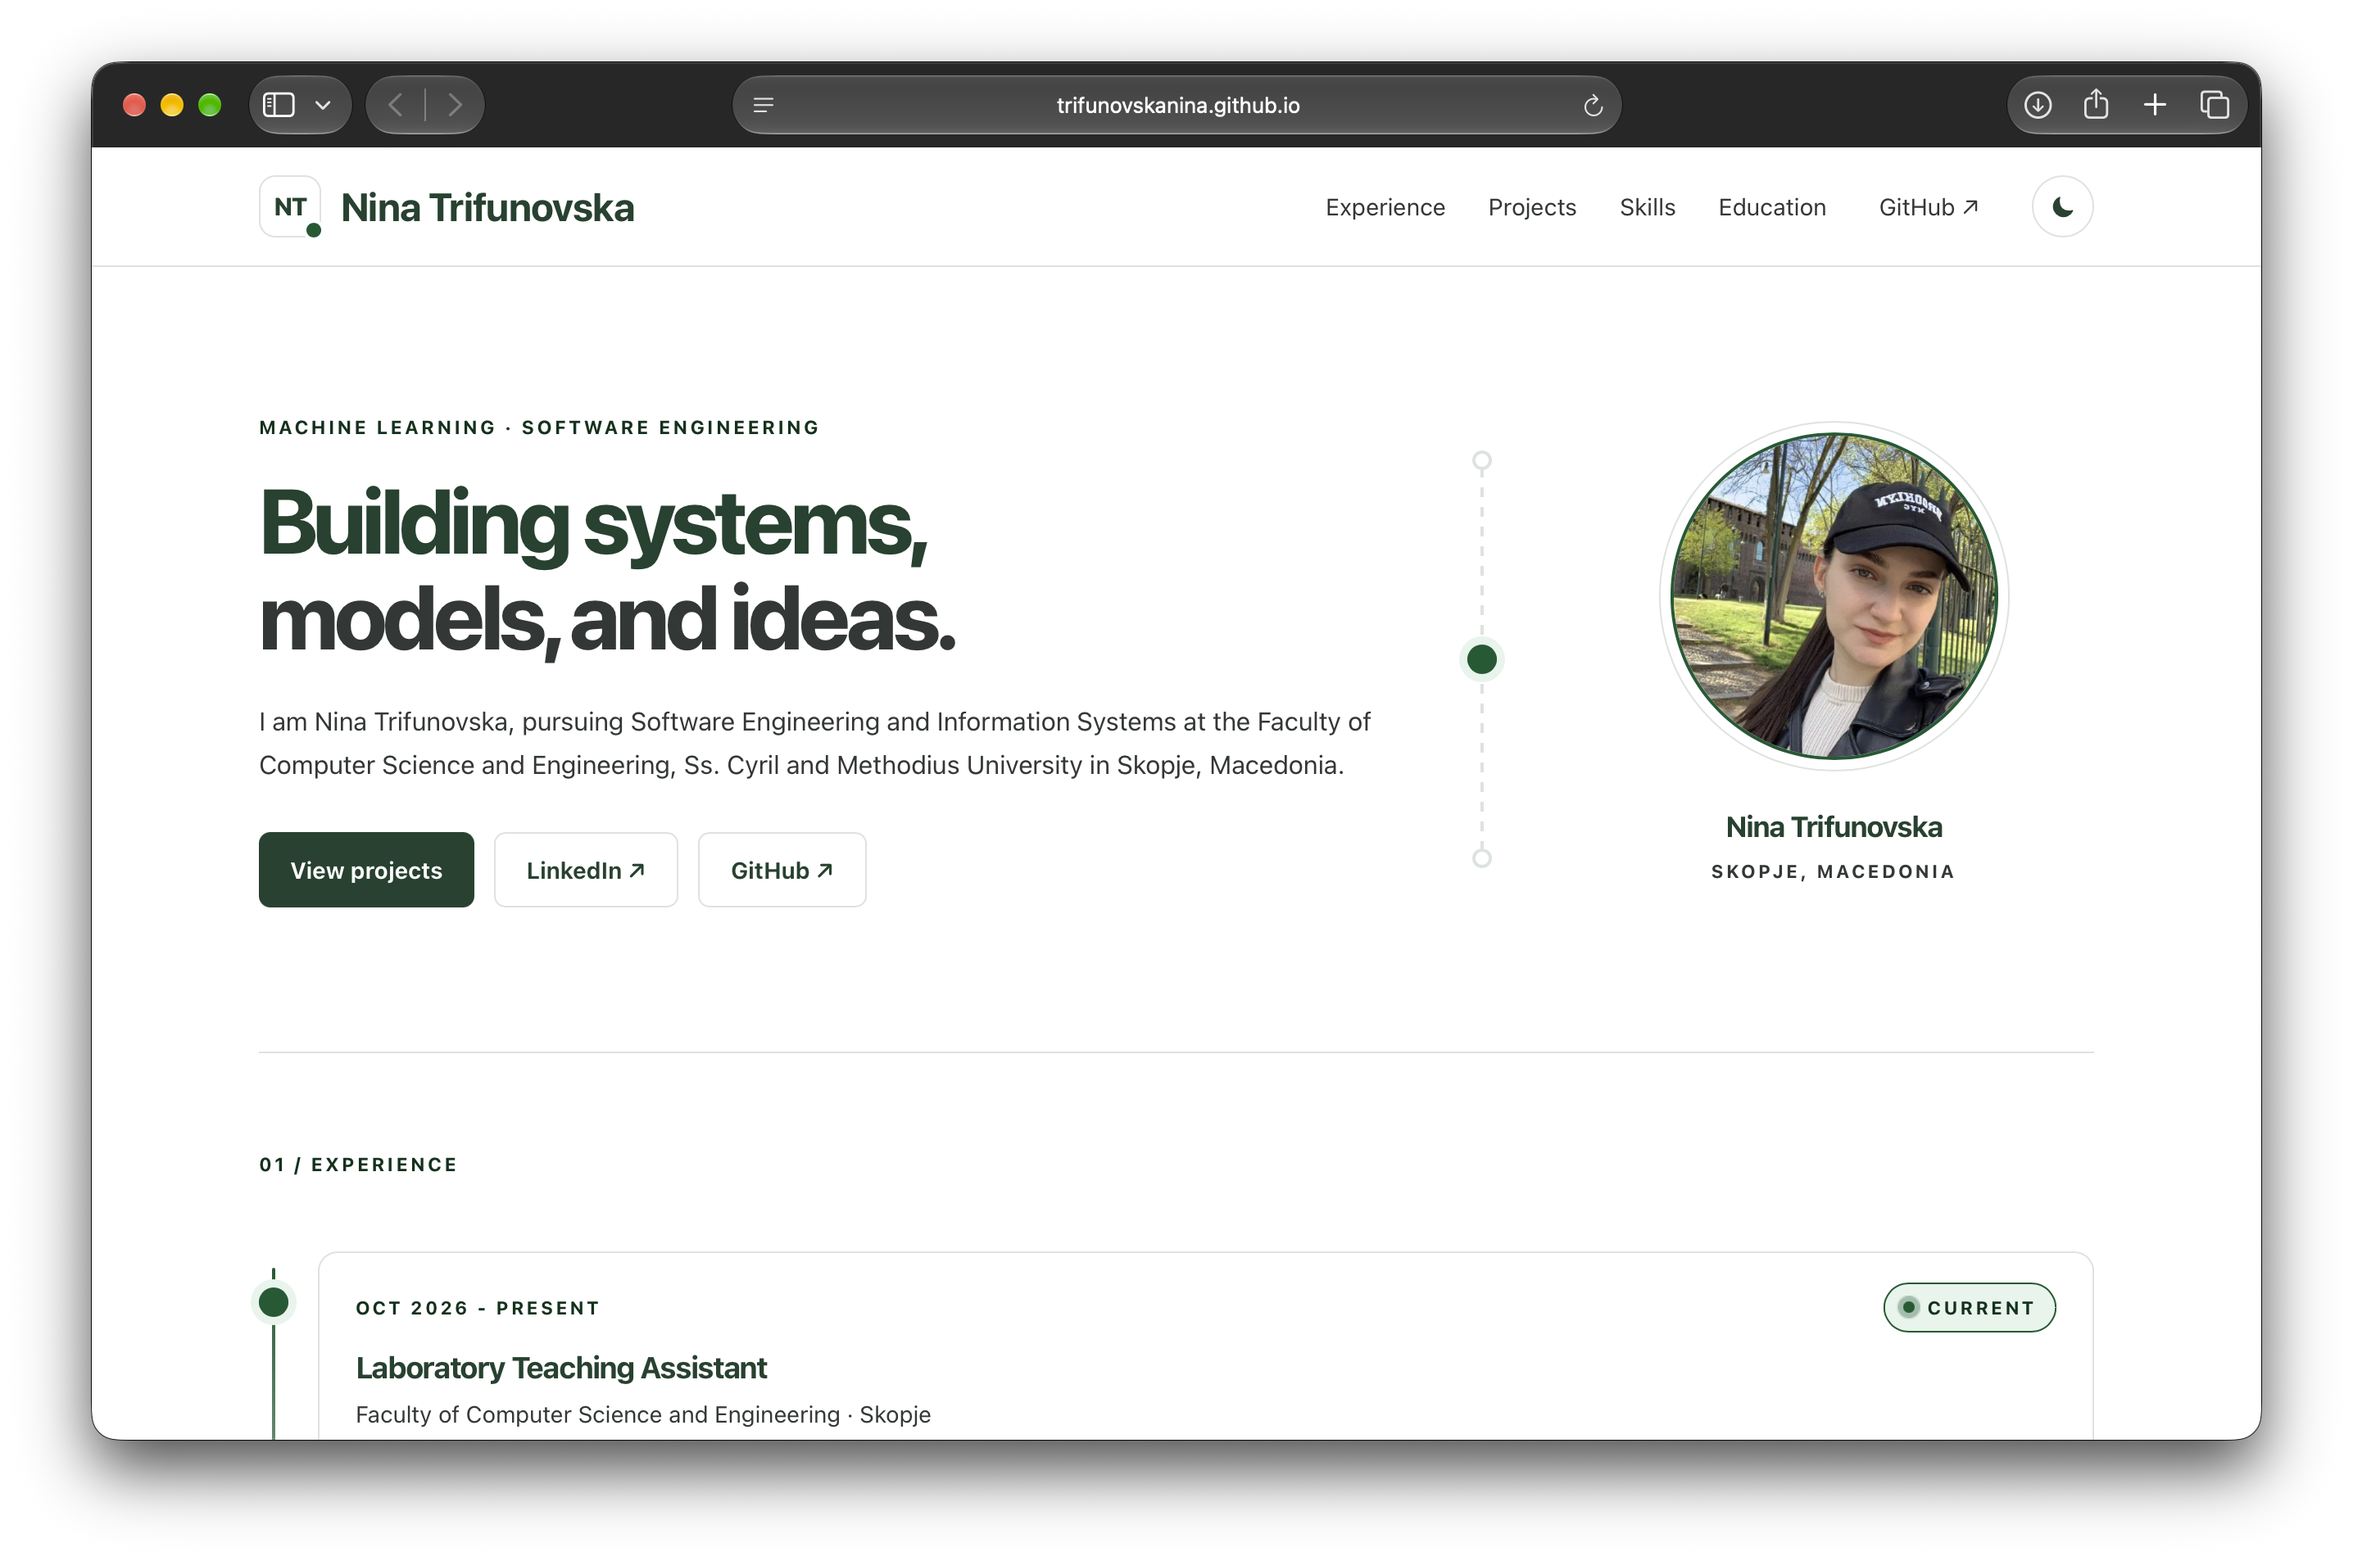
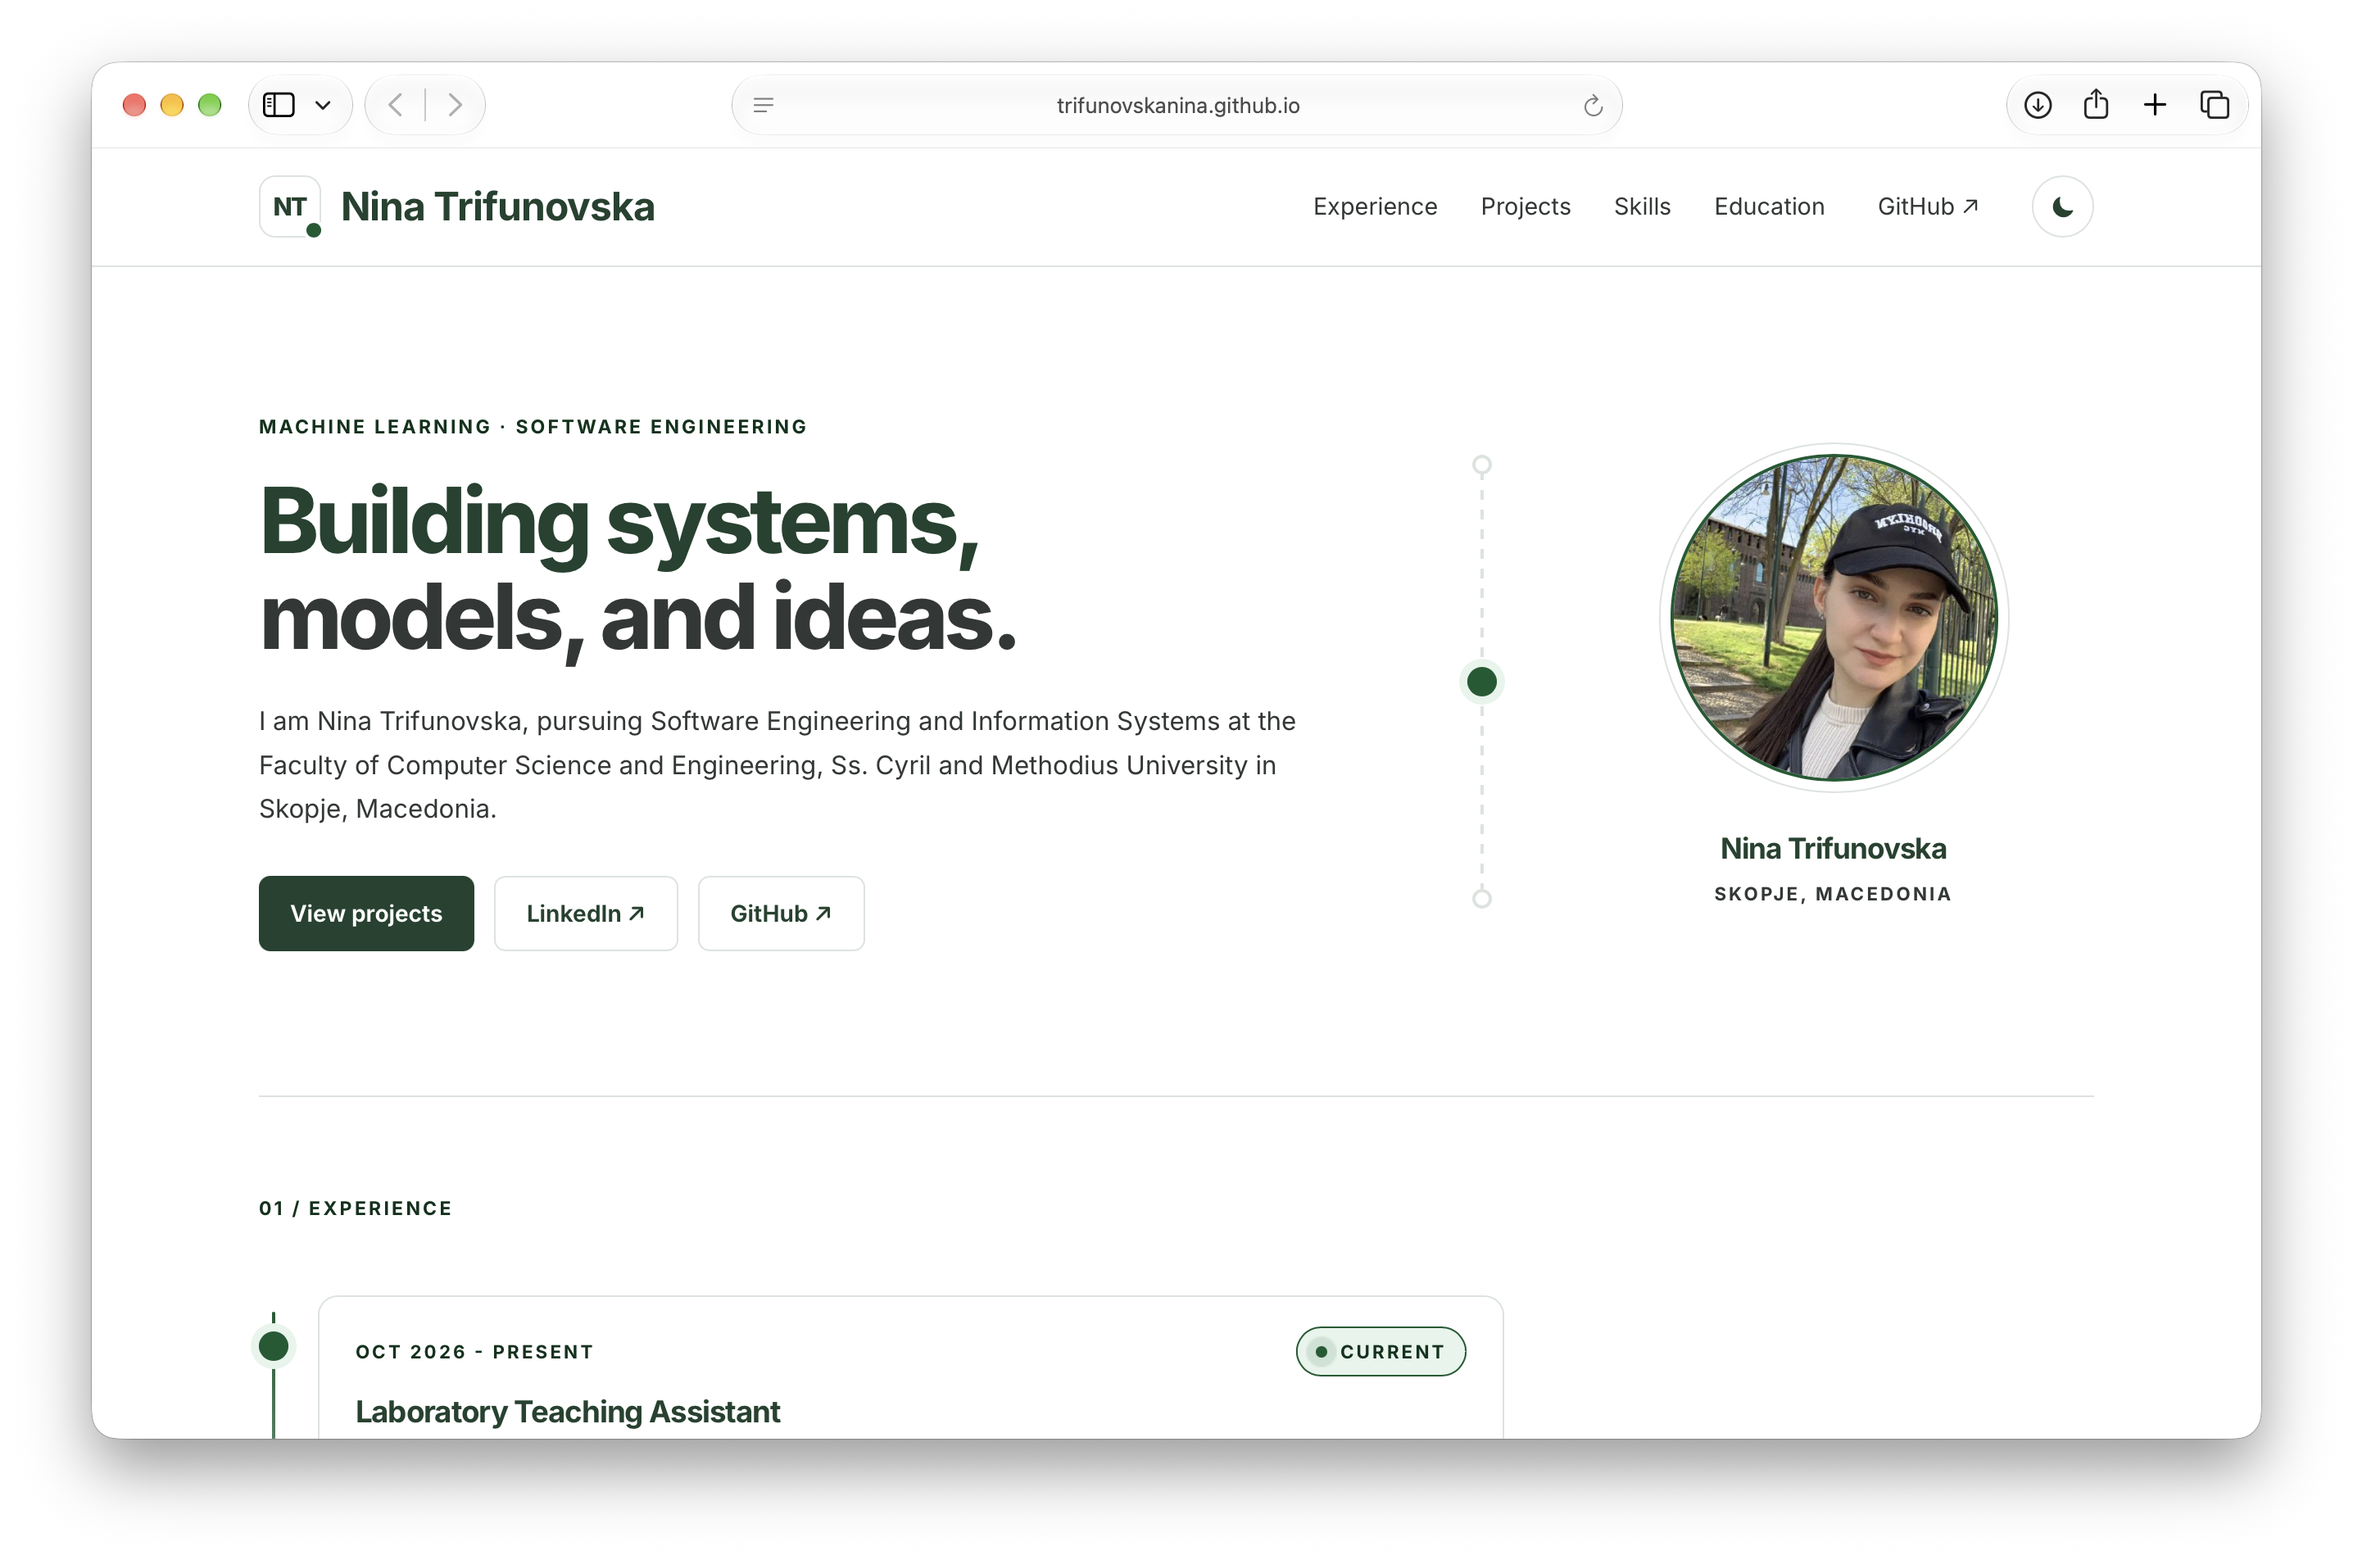
new screenshot

diff --git a/README.md b/README.md
@@ -6,4 +6,4 @@ My personal portfolio website, showcasing my background, projects, technical ski
 
 ---
 
-<img src="screenshots/1.png?v=2"/>
+<img src="screenshots/1.png?v=3"/>
